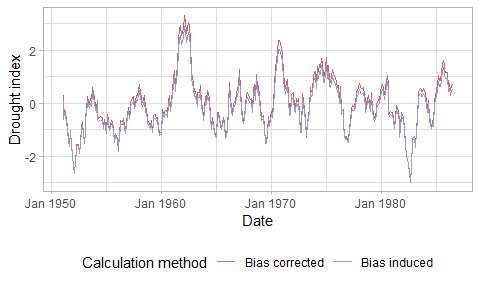
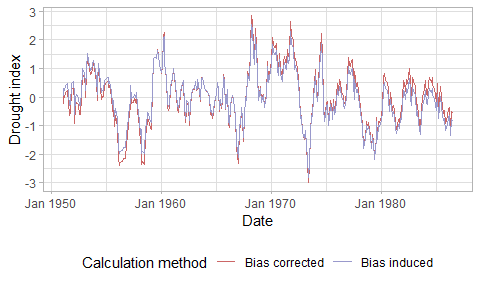
adding bias measurement scripts

Changed region(s): [[0.0312, 0.0312, 1.0, 0.625], [0.0625, 0.625, 0.0938, 0.6562]]

diff --git a/README.md b/README.md
@@ -3,7 +3,8 @@ droughtR
 
 <img src="https://raw.githubusercontent.com/mammask/droughtr/main/man/figures/droughtR.png" align = "right" width = 120/>
 
-droughtR is an R for package that enables drought monitoring. It computes the Standardized Precipitation Index (SPI) and
+droughtR is an R for package that enables drought monitoring and drought
+forecasting. It computes the Standardized Precipitation Index (SPI) and
 the Non-Standardized Precipitation Index (NSPI) using General Additive
 Models for Location Scale and Shape (GAMLSS). It enables the generation
 of drought forecasts for univariate time series and deals with the bias
@@ -22,9 +23,8 @@ devtools::install_github("mammask/droughtR")
 ### Generate SPI and NSPI
 
 ``` r
-# Load droughtr library
+# Load droughtR library
 library(droughtR)
-#> Warning: package 'droughtR' was built under R version 4.1.1
 #> Registered S3 method overwritten by 'quantmod':
 #>   method            from
 #>   as.zoo.data.frame zoo
@@ -33,10 +33,9 @@ library(droughtR)
 rain = dummyrainfall(startYear = 1950, endYear = 2010)
 
 # Compute the non-stationary standardized precipitation index (NSPI) for scale 12 using GAMLSS
-drought = computenspi(monthlyRainfall = rain, stationaryspi = FALSE, spiScale = 12)
-#> GAMLSS-RS iteration 1: Global Deviance = 3332.032 
-#> GAMLSS-RS iteration 2: Global Deviance = 3332.024 
-#> GAMLSS-RS iteration 3: Global Deviance = 3332.024
+drought = computenspi(x = rain, stationaryspi = FALSE, spiScale = 12, dist = 'gamma')
+#> GAMLSS-RS iteration 1: Global Deviance = 3557.354 
+#> GAMLSS-RS iteration 2: Global Deviance = 3557.354
 
 # Plot NSPI
 plot(drought)
@@ -53,30 +52,18 @@ Split the rainfall series into training validation and test set:
 ``` r
 rain = oossplit(x = rain, trainratio = 0.6, validationratio = 0.2, testratio = 0.2)
 print(rain)
-#>          Date Rainfall AccumPrecip Trend       mu      sigma      ecdfm
-#>   1: Jan 1950 7.169193          NA    NA       NA         NA         NA
-#>   2: Feb 1950 7.385852          NA    NA       NA         NA         NA
-#>   3: Mar 1950 7.267958          NA    NA       NA         NA         NA
-#>   4: Apr 1950 7.063678          NA    NA       NA         NA         NA
-#>   5: May 1950 9.926310          NA    NA       NA         NA         NA
-#>  ---                                                                   
-#> 606: Jul 2010 6.319853    94.97598   595 96.14484 0.04308050 0.39397432
-#> 607: Aug 2010 6.375332    93.32642   596 96.14188 0.04309033 0.25080640
-#> 608: Sep 2010 6.293398    92.04507   597 96.13891 0.04310017 0.16158741
-#> 609: Oct 2010 6.792034    89.09337   598 96.13595 0.04311001 0.04197682
-#> 610: Nov 2010 7.124064    89.28355   599 96.13298 0.04311985 0.04658958
-#>            NSPI Split
-#>   1:         NA  <NA>
-#>   2:         NA  <NA>
-#>   3:         NA  <NA>
-#>   4:         NA  <NA>
-#>   5:         NA  <NA>
-#>  ---                 
-#> 606: -0.2689754  Test
-#> 607: -0.6719543  Test
-#> 608: -0.9879547  Test
-#> 609: -1.7281929  Test
-#> 610: -1.6788609  Test
+#>          Date Rainfall Split
+#>   1: Jan 1950 8.980207 Train
+#>   2: Feb 1950 6.989177 Train
+#>   3: Mar 1950 6.148575 Train
+#>   4: Apr 1950 7.674214 Train
+#>   5: May 1950 7.846225 Train
+#>  ---                        
+#> 606: Jul 2010 8.126654  Test
+#> 607: Aug 2010 6.465501  Test
+#> 608: Sep 2010 6.731451  Test
+#> 609: Oct 2010 6.550978  Test
+#> 610: Nov 2010 8.745794  Test
 ```
 
 #### Bias measurement
@@ -104,28 +91,63 @@ computational approaches.
 rain = dummyrainfall(startYear = 1950, endYear = 2010)
 
 # Compute bias
-bias = measurebias(x = rain, trainratio = 0.6, validationratio = 0.2, testratio = 0.2, stationaryspi = TRUE, spiscale = 12)
+bias = measurebias(x = rain, trainratio = 0.6, validationratio = 0.2, testratio = 0.2, stationaryspi = TRUE, spiscale = 12, dist = 'normal')
+#> GAMLSS-RS iteration 1: Global Deviance = 1854.13 
+#> GAMLSS-RS iteration 2: Global Deviance = 1854.13 
+#> GAMLSS-RS iteration 1: Global Deviance = 3254.111 
+#> GAMLSS-RS iteration 2: Global Deviance = 3254.111
 bias
 #> $Transitions
 #>     Bias Corrected Class Bias Induced Class   N
-#>  1:          Near Normal        Near Normal 239
-#>  2:          Near Normal     Moderately Dry  13
-#>  3:       Moderately Dry     Moderately Dry  26
-#>  4:             Very Dry           Very Dry  12
-#>  5:        Extremely Dry      Extremely Dry  10
-#>  6:       Moderately Dry           Very Dry   3
-#>  7:       Moderately Wet     Moderately Wet  13
-#>  8:        Extremely Wet      Extremely Wet  14
-#>  9:       Moderately Wet        Near Normal  14
-#> 10:             Very Wet     Moderately Wet   7
-#> 11:        Extremely Wet           Very Wet   2
-#> 12:             Very Wet           Very Wet   2
+#>  1:          Near Normal        Near Normal 231
+#>  2:          Near Normal     Moderately Wet   3
+#>  3:       Moderately Wet           Very Wet   1
+#>  4:       Moderately Wet     Moderately Wet  27
+#>  5:       Moderately Dry        Near Normal   9
+#>  6:        Extremely Dry           Very Dry   8
+#>  7:        Extremely Dry      Extremely Dry   8
+#>  8:             Very Dry     Moderately Dry   3
+#>  9:       Moderately Dry     Moderately Dry  14
+#> 10:             Very Wet           Very Wet   8
+#> 11:             Very Wet     Moderately Wet   6
+#> 12:        Extremely Wet      Extremely Wet   6
+#> 13:             Very Dry           Very Dry   7
+#> 14:        Extremely Wet           Very Wet   4
+#> 15:       Moderately Wet        Near Normal   7
+#> 16:          Near Normal     Moderately Dry  10
+#> 17:       Moderately Dry           Very Dry   3
 #> 
 #> $`Impacted Records`
-#> [1] "10.99% of records changed drought class"
+#> [1] "15.21% of records changed drought class"
 #> 
 #> $Plot
 ```
 
 ![](README_figs/README-unnamed-chunk-5-1.png)<!-- -->
 
+<!-- #### Bias Corrected auto.arima -->
+<!-- In this section, we perform out-of-sample validation using a bias corrected auto.arima to forecast the Standardized Precipitation Index (SPI). An additional parameter is introduced to forecast::auto.arima and requires fitting a S-ARIMA model: -->
+<!-- ```{r, eval=TRUE, fig.height=3, fig.width=5} -->
+<!-- # out-of-sample validation using a bias corrected auto.arima -->
+<!-- model = bcautoarima(x = rain, -->
+<!--                     trainratio = 0.8, -->
+<!--                     validationratio = 0.0, -->
+<!--                     testratio = 0.2, -->
+<!--                     stationaryspi = TRUE, -->
+<!--                     spiscale = 12, -->
+<!--                     seasonal = TRUE) -->
+<!-- ``` -->
+<!-- The model returns a set of diagnostics and analytical outcomes, including the model description, diagnostics plots and actual vs. predicted forecasts: -->
+<!-- ```{r, eval=TRUE, fig.height=3, fig.width=5, echo = TRUE} -->
+<!-- # Return the model description -->
+<!-- model[['Diagnostics']][['Model Description']] -->
+<!-- # Return R2 score in the test set -->
+<!-- model[['Diagnostics']][['R2 Score Test']] -->
+<!-- ``` -->
+<!-- Actual vs. predicted SPI in the test set: -->
+<!-- ```{r, eval=TRUE, fig.height=3, fig.width=5, echo = TRUE} -->
+<!-- model[['Diagnostics']][['Actual vs Predicted Test']] -->
+<!-- ``` -->
+<!-- Additional models are developed and can be found here: -->
+<!-- * Bias induced auto.arima -->
+<!-- * Bias corrected modwt auto.arima -->
